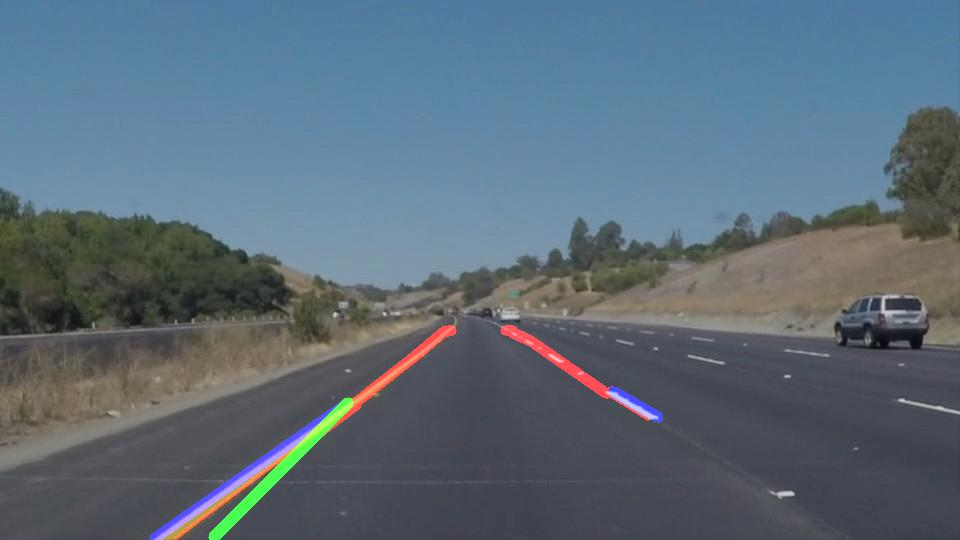
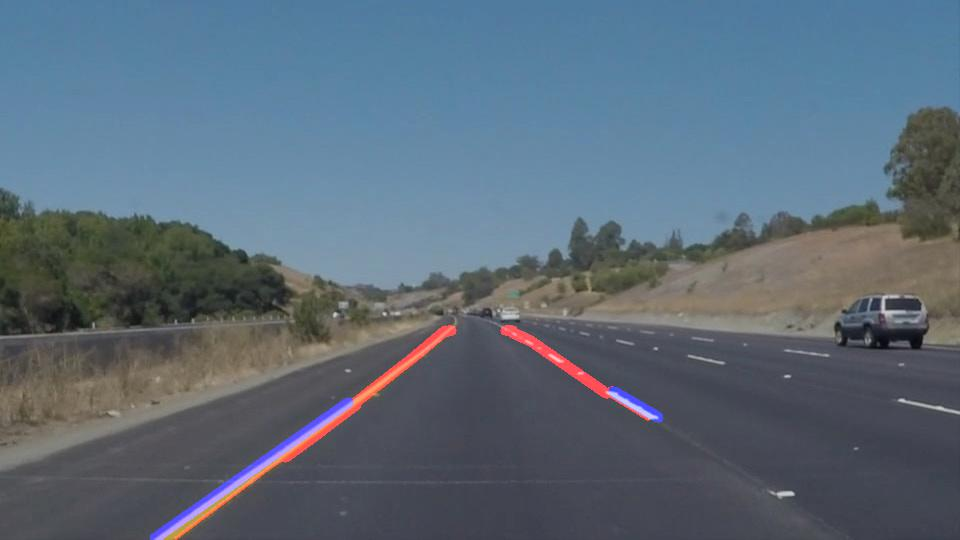
latest

Changed region(s): [[0.2188, 0.7111, 0.375, 1.0]]

diff --git a/lane_finder.py b/lane_finder.py
@@ -59,7 +59,9 @@ def region_of_interest(img, vertices):
 def draw_down(img, lines, bottom, dist=6, color=[255,0,0], thickness=2):
     points = np.zeros((len(lines), 5), dtype=np.int32)
     xtop=1;ytop=2;xbot=3;ybot=4
+    is_left = False
     if bottom[0] == 0:
+        is_left = True
         print('\n========\nIn LEFT Line')
         xtop=3;ytop=4;xbot=1;ybot=2
     else:
@@ -99,7 +101,9 @@ def draw_down(img, lines, bottom, dist=6, color=[255,0,0], thickness=2):
     while True:  
         x2 = int(x1+dist*np.sin(slope))
         y2 = int(y1+dist*np.cos(slope))
-        if x2 <= bottom[0] or y2 >= bottom[1]:
+        if y2 >= bottom[1]:
+            break
+        if (is_left and x2 <= bottom[0]) or (!is_left and x2 >= bottom[0]):
             break
         print('Drawing Bottom Gap: ({}, {}), ({}, {})'.format(x1, y1, x2, y2))
         cv2.line(img, (x1,y1), (x2,y2), [0,255,0], thickness)
